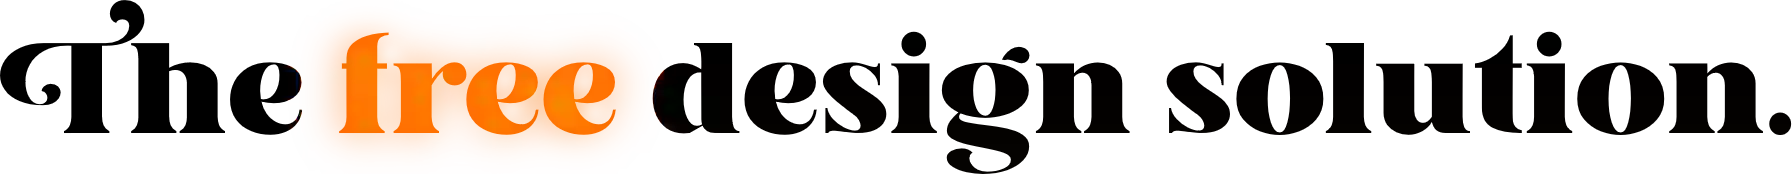
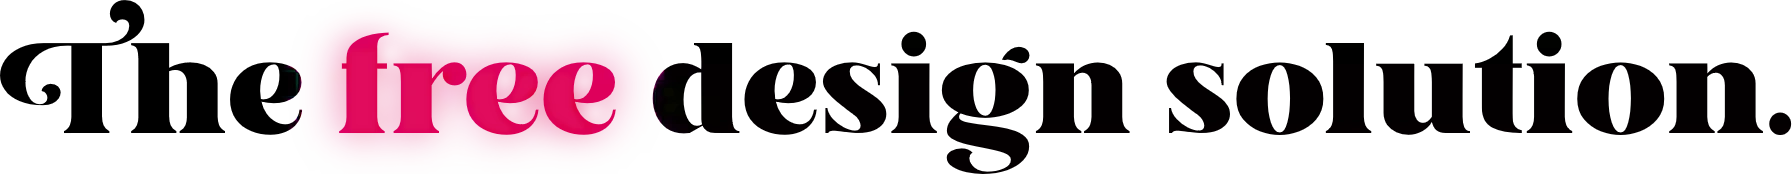
change branding

Changed region(s): [[0.1875, 0.1724, 0.375, 0.7759]]

diff --git a/index.html b/index.html
@@ -1,8 +1,10 @@
 <!DOCTYPE html>
 <head>
+  <!-- christmas (?) site theme -->
   <!-- <link rel="stylesheet" href="special/0.css" /> -->
   <!-- <script src="special/s.js"></script> -->
-  <title>CuoreUI</title>
+
+  <title>HartUI</title>
   <link rel="icon" href="l.webp" />
   <link rel="stylesheet" href="0.css" />
   <link href="https://fonts.googleapis.com/css?family=Montserrat" rel="stylesheet" />
@@ -17,6 +19,6 @@
     </header>
   </div>
   <iframe id="i" src=""></iframe>
-  <script>document.title = "CuoreUI"</script>
+  <script>document.title = "HartUI"</script>
   <script src="s.js"></script>
 </body>

diff --git a/p/h.html b/p/h.html
@@ -39,7 +39,7 @@
         background-image: url('n.webp');
         display: inline-block;
       "
-      onclick="top.location = `https://www.nuget.org/packages/CuoreUI.Winforms`"
+      onclick="top.location = `https://www.nuget.org/packages/HartUI.Winforms`"
     ></button>
     <div style="background: #bebebe;border-radius: 2px;width: 4px;height: 4px;margin: 0 auto;display: inline-block;transform: translateY(-20px);"></div>
     <button
@@ -48,7 +48,7 @@
         background-image: url('g.webp');
         display: inline-block;
       "
-      onclick="top.location = `https://github.com/owtysm2/CuoreUI`"
+      onclick="top.location = `https://github.com/rrivvi/HartUI`"
     ></button>
 
 
@@ -76,7 +76,7 @@
   const c = document.getElementById("c");
 
   async function t() {
-    const d = await g("CuoreUI.Winforms");
+    const d = await g("HartUI.Winforms");
     if (d !== -1)
   {
      k1 = d;

diff --git a/0.css b/0.css
@@ -83,8 +83,8 @@ p {
 }
 
 button.a {
-  background-color: #ff6a00;
-  border-color: #ff6a00;
+  background-color: #E00C5C;
+  border-color: #E00C5C;
 }
 
 .e{

diff --git a/docs/pages/Introduction.html b/docs/pages/Introduction.html
@@ -1,7 +1,7 @@
 <link rel="stylesheet" href="entry.css" />
 <h1>Introduction</h1>
-<p>Thanks for being interested in CuoreUI!
-<br>This is a free, yet nice-looking, and functional WinForms UI framework.<p></p>
+<p>Thanks for being interested in HartUI!
+<br>This is a fork of the CuoreUI Library, as the original appears to have been abandoned.<p></p>
 <h3>A heads-up:</h3>
 <p>This documentation will focus on the most important <code>Properties</code> and <code>Methods</code>.
 <br>For example, many <code>Color Properties</code> will not be talked about here.</p>

diff --git a/s.js b/s.js
@@ -1,7 +1,7 @@
 document.addEventListener("DOMContentLoaded", (event) => {
   const n = `
         <button id="p/h.html" class="e e1 a">Home</button>
-        <button id="https://github.com/owtysm2/CuoreUI" class="e e2 e-o">Repository</button>
+        <button id="https://github.com/rrivvi/HartUI" class="e e2 e-o">Repository</button>
         <button id="/docs/index.html" class="e e4 e-o">Docs</button>
     `;
 
@@ -10,7 +10,7 @@ document.addEventListener("DOMContentLoaded", (event) => {
   h.innerHTML = n;
 
   function l() {
-    if (document.title === "CuoreUI" || i.src === "") {
+    if (document.title === "HartUI" || i.src === "") {
       for (ch2 of h.children) {
         ch2.classList.remove("a");
       }

diff --git a/p/l.js b/p/l.js
@@ -1,1 +1,1 @@
-if(top.location.href.includes("/p/"))top.location="https://cuoreui.netlify.app"
+if(top.location.href.includes("/p/"))top.location="https://HartUI.netlify.app"